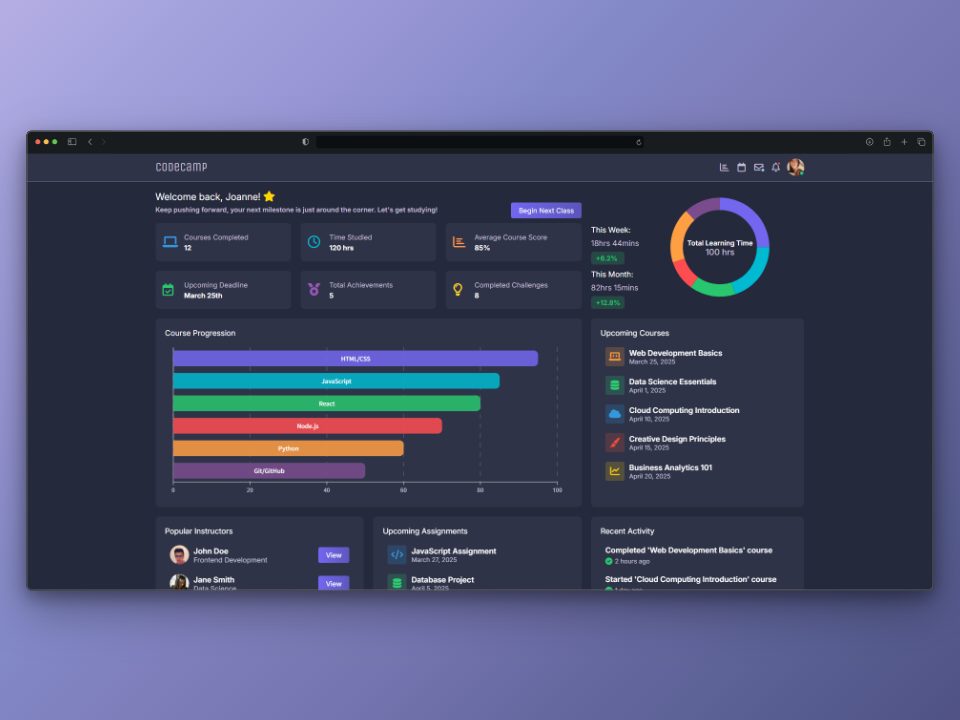
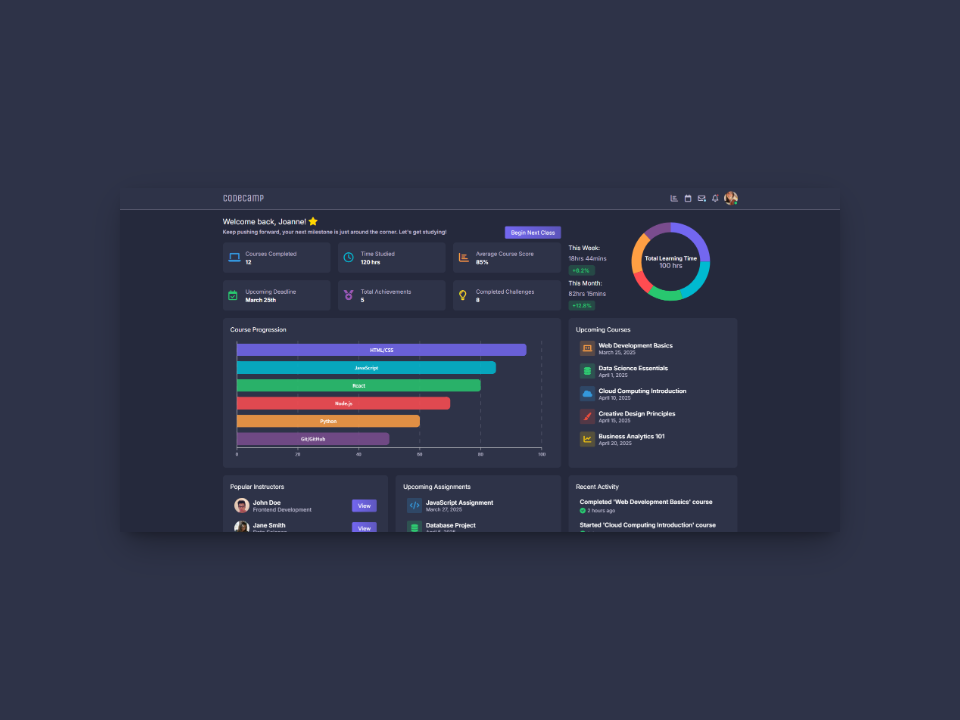
Updated to light theme

diff --git a/src/views/DemosPage.vue b/src/views/DemosPage.vue
@@ -51,7 +51,7 @@ export default {
           name: "Sales Dashboard",
           image: "/Dashboard_Images/Sales_Dashboard.png",
         },
-        { name: "Healthcare", image: "/Dashboard_Images/Healthcare.png" },
+        { name: "Healthcare", image: "/Dashboard_Images/amazon.png" },
         {
           name: "Sales Dashboard",
           image: "/Dashboard_Images/Sales_Dashboard.png",
@@ -77,18 +77,20 @@ export default {
 </script>
 
 <style scoped>
-/* Hero Section */
 .hero-section {
   margin-bottom: 30px;
 }
 
 .hero-section h1 {
-  font-size: 28px;
+  font-family: "Unica One", cursive;
+  font-size: 24px;
   margin-bottom: 10px;
+  font-weight: 500;
+  color: #006ba6;
 }
 
 .hero-section p {
-  font-size: 16px;
+  font-size: 15px;
   line-height: 1.6;
   font-weight: 300;
 }
@@ -97,7 +99,7 @@ export default {
 .dashboard-grid {
   display: grid;
   grid-template-columns: repeat(4, 1fr);
-  gap: 20px;
+  gap: 25px;
   margin-top: 10px;
 }
 

diff --git a/src/components/UI/DashboardDemoCard.vue b/src/components/UI/DashboardDemoCard.vue
@@ -39,15 +39,16 @@ export default {
   display: inline-block;
   width: 100%;
   height: auto;
+  border-radius: 4px;
 }
 
 .dashboard-image {
   width: 100%;
-  height: auto;
   max-width: 100%;
+  height: 100%;
   aspect-ratio: 16 / 12;
-  border-radius: 4px;
   transition: opacity 0.2s ease;
+  box-sizing: border-box;
 }
 
 .overlay {
@@ -64,8 +65,11 @@ export default {
 
 .dashboard-name {
   text-align: left;
-  margin-top: 10px;
-  font-size: 15px;
-  font-weight: 600;
+  margin-top: 6px;
+  font-size: 18px;
+  line-height: 1.2;
+  font-weight: 500;
+  font-family: "Unica One", cursive;
+  color: rgb(24, 24, 24);
 }
 </style>

diff --git a/src/components/Navigation/TopNavigation.vue b/src/components/Navigation/TopNavigation.vue
@@ -22,9 +22,8 @@ nav {
   justify-content: center;
   align-items: center;
   padding: 15px 20px;
-  background: #2e3348;
   border-bottom: 1px solid rgba(193, 191, 214, 0.5);
-  color: #c1bfd6;
+  color: #006ba6;
 }
 
 .nav-container {
@@ -35,20 +34,21 @@ nav {
   max-width: 1800px;
 }
 
+a {
+  text-decoration: none;
+  font-weight: 400;
+  color: #006ba6;
+}
+
 h2 {
   font-family: "Unica One", cursive;
-  color: #c1bfd6;
+  color: #006ba6;
   margin: 0;
+  font-weight: 500;
 }
 
 .nav-links {
   display: flex;
   gap: 1rem;
-}
-
-a {
-  text-decoration: none;
-  font-weight: 500;
-  color: #c1bfd6;
 }
 </style>

diff --git a/src/App.vue b/src/App.vue
@@ -23,9 +23,9 @@ export default {
 <style>
 body {
   margin: 0;
-  background-color: #25293c;
+  background-color: #f8f8f8;
   font-family: "Inter Tight", sans-serif;
-  color: #c1bfd6;
+  color: rgb(34, 34, 34);
 }
 
 .content {
